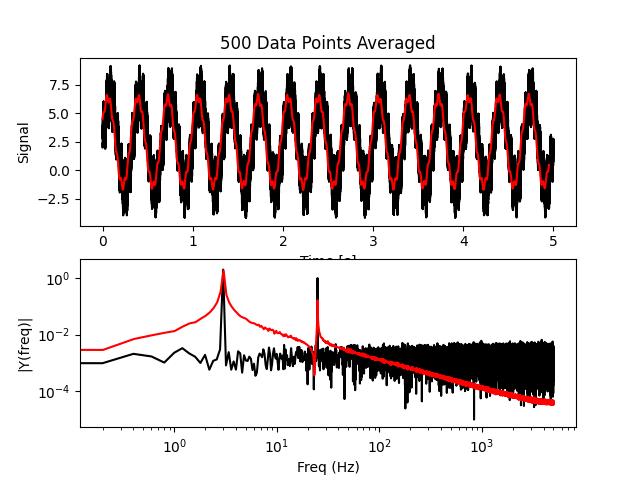
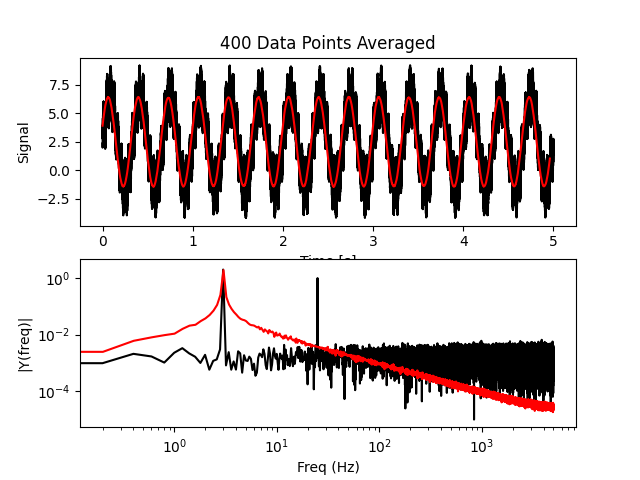
updated 5 and 6

diff --git a/HW2/Q6.py b/HW2/Q6.py
@@ -1,20 +1,25 @@
 import matplotlib.pyplot as plt
 import numpy as np
 import csv
-x = 400
-x2 = 300
-x3 = 100
-x4 = 300
 
-def AMFilter(olist, nlist, start_index, x):
-    sum = 0
-    for ii in range(x):
-        sum = sum + olist[start_index+ii]
-    nlist.append(sum/x)
-    #print("nlist = "+ str(nlist[-1]))
-#AMFilter(list,nlist, 1, x)
+A1 = 0.997
+A2 = 0.99
+A3 = 0.9
+A4 = 0.9985
 
-def fft(t, data, nt, ndata, dt, x):
+B1 = 0.003
+B2 = 0.01
+B3 = 0.1
+B4 = 0.0015
+#fnew = 0
+def IIRFilter(olist, nlist, start_index, A, B):
+    
+    new = olist[start_index - ii]
+
+    new = A*new + B*olist[start_index]
+    nlist.append(new)
+
+def fft(t, data, nt, ndata, dt, A, B):
 
     #dt = 1.0/10000.0 # 10kHz
     #t = np.arange(0.0, 1.0, dt) # 10s
@@ -47,10 +52,7 @@ def fft(t, data, nt, ndata, dt, x):
     nY = nY[range(int(nn/2))]
 
     fig, (ax1, ax2) = plt.subplots(2, 1)
-    ax1.set_title(str(x) + ' Data Points Averaged')
-    #ax1.plot(t,y,'b')
-    #ax1.set_xlabel('Time')
-    #ax1.set_ylabel('Amplitude')
+    ax1.set_title('A = ' + str(A) + ', ' + 'B = ' + str(B))
     ax1.plot(t, data, 'black')
     ax1.plot(nt, ndata, 'red') #filtered
     ax1.set_xlabel('Time [s]')
@@ -79,12 +81,13 @@ with open('D:/Northwestern/ME433/MECH_ENG_433_Yen/HW2/sigA.csv') as f:
         data1.append(float(row[1])) # second column
 dt1 = len(t1)/t1[-1]
 ndata1 = []
-for ii in range(len(data1)-x):
-    AMFilter(data1, ndata1, ii, x)
+new = data1[0]
+for ii in range(1,len(data1)):
+    new = A1*new + B1*data1[ii]
+    ndata1.append(new)
 print("Sample rate 1: " + str(dt1))
-nt1 = t1[0:-x]
-fft(t1, data1, nt1, ndata1, dt1, x)
-#fft(nt1, ndata1, dt1)
+nt1 = t1[1:]
+fft(t1, data1, nt1, ndata1, dt1, A1, B1)
 
 with open('D:/Northwestern/ME433/MECH_ENG_433_Yen/HW2/sigB.csv') as f:
     # open the csv file
@@ -95,11 +98,13 @@ with open('D:/Northwestern/ME433/MECH_ENG_433_Yen/HW2/sigB.csv') as f:
         data2.append(float(row[1])) # second column
 dt2 = len(t2)/t2[-1]
 ndata2 = []
-for ii in range(len(data2)-x2):
-    AMFilter(data2, ndata2, ii, x2)
+new = data2[0]
+for ii in range(1, len(data2)):
+    new = A2*new + B2*data2[ii]
+    ndata2.append(new)
 print("Sample rate 2: " + str(dt2))
-nt2 = t2[0:-x2]
-fft(t2, data2, nt2, ndata2, dt2, x2)
+nt2 = t2[1:]
+fft(t2, data2, nt2, ndata2, dt2, A2, B2)
 
 with open('D:/Northwestern/ME433/MECH_ENG_433_Yen/HW2/sigC.csv') as f:
     # open the csv file
@@ -110,11 +115,13 @@ with open('D:/Northwestern/ME433/MECH_ENG_433_Yen/HW2/sigC.csv') as f:
         data3.append(float(row[1])) # second column
 dt3 = len(t3)/t3[-1]
 ndata3 = []
-for ii in range(len(data3)-x3):
-    AMFilter(data3, ndata3, ii, x3)
+new = data3[0]
+for ii in range(1, len(data3)):
+    new = A3*new + B3*data3[ii]
+    ndata3.append(new)
 print("Sample rate 3: " + str(dt3))
-nt3 = t3[0:-x3]
-fft(t3, data3, nt3, ndata3, dt3, x3)
+nt3 = t3[1:]
+fft(t3, data3, nt3, ndata3, dt3, A3, B3)
 
 with open('D:/Northwestern/ME433/MECH_ENG_433_Yen/HW2/sigD.csv') as f:
     # open the csv file
@@ -125,10 +132,12 @@ with open('D:/Northwestern/ME433/MECH_ENG_433_Yen/HW2/sigD.csv') as f:
         data4.append(float(row[1])) # second column
 dt4 = len(t4)/t4[-1]
 ndata4 = []
-for ii in range(len(data4)-x4):
-    AMFilter(data4, ndata4, ii, x4)
+new = data4[0]
+for ii in range(1, len(data4)):
+    new = A4*new + B4*data4[ii]
+    ndata4.append(new)
 print("Sample rate 4: " + str(dt4))
-nt4 = t4[0:-x4]
-fft(t4, data4, nt4, ndata4, dt4, x4)
+nt4 = t4[1:]
+fft(t4, data4, nt4, ndata4, dt4, A4, B4)
 
 plt.show()
